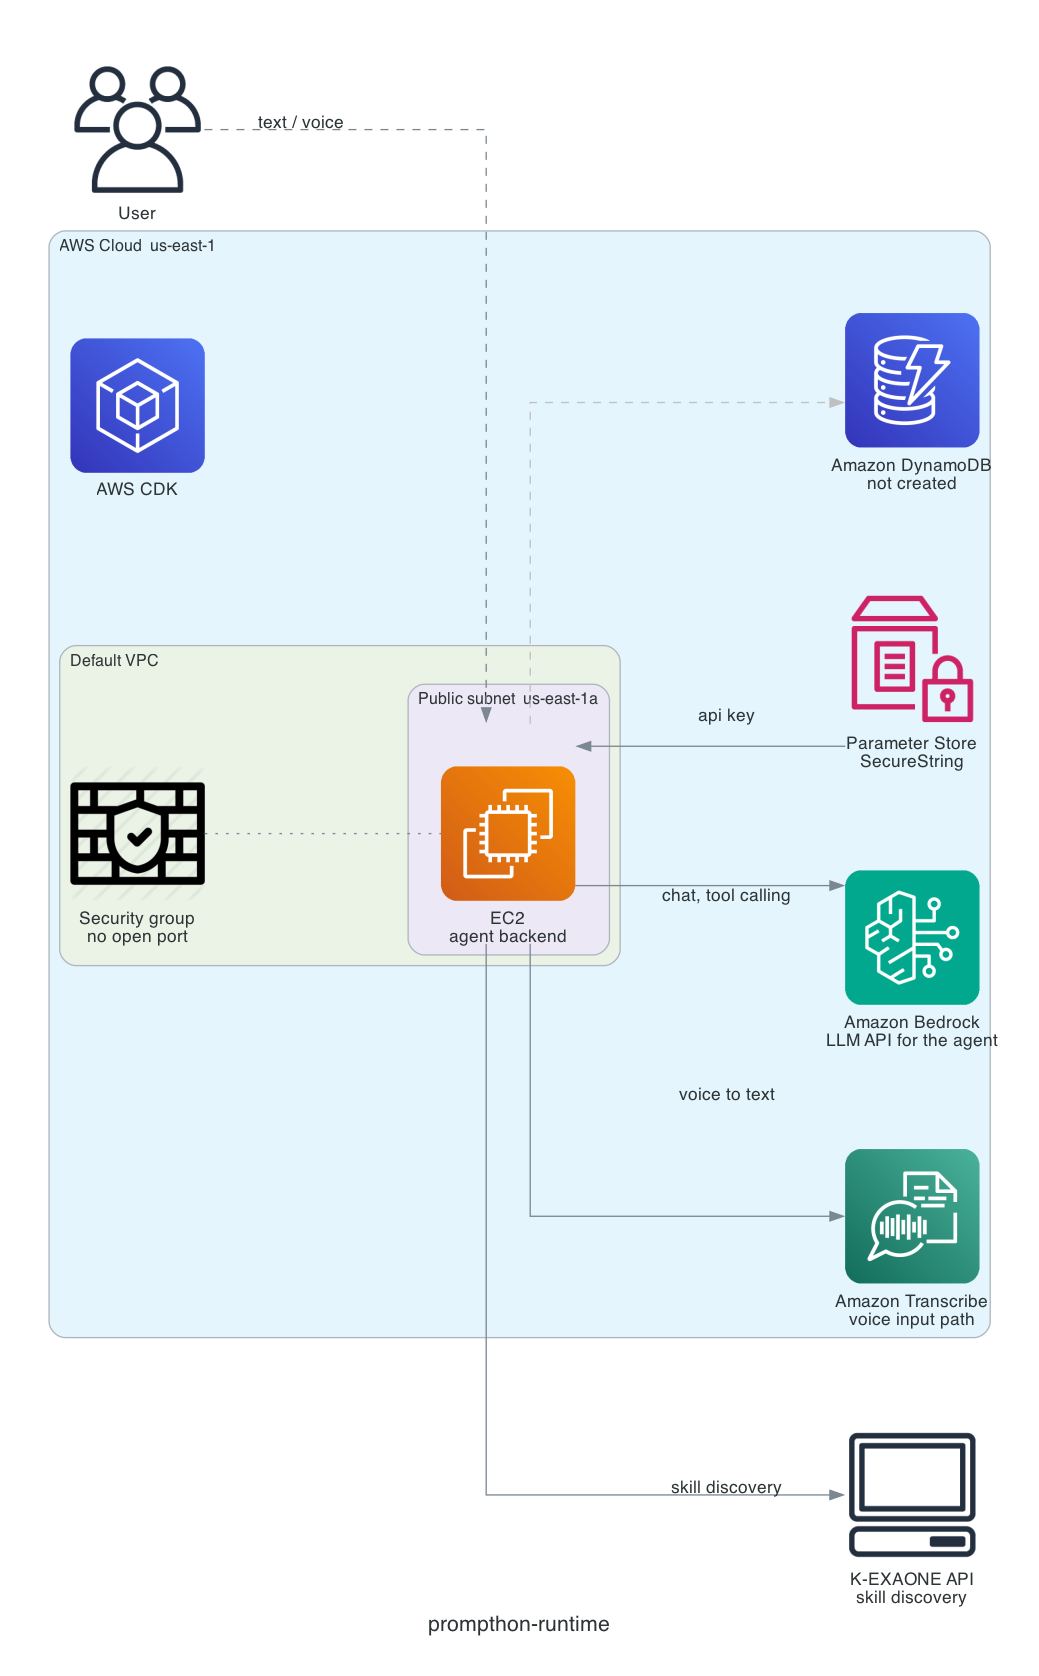
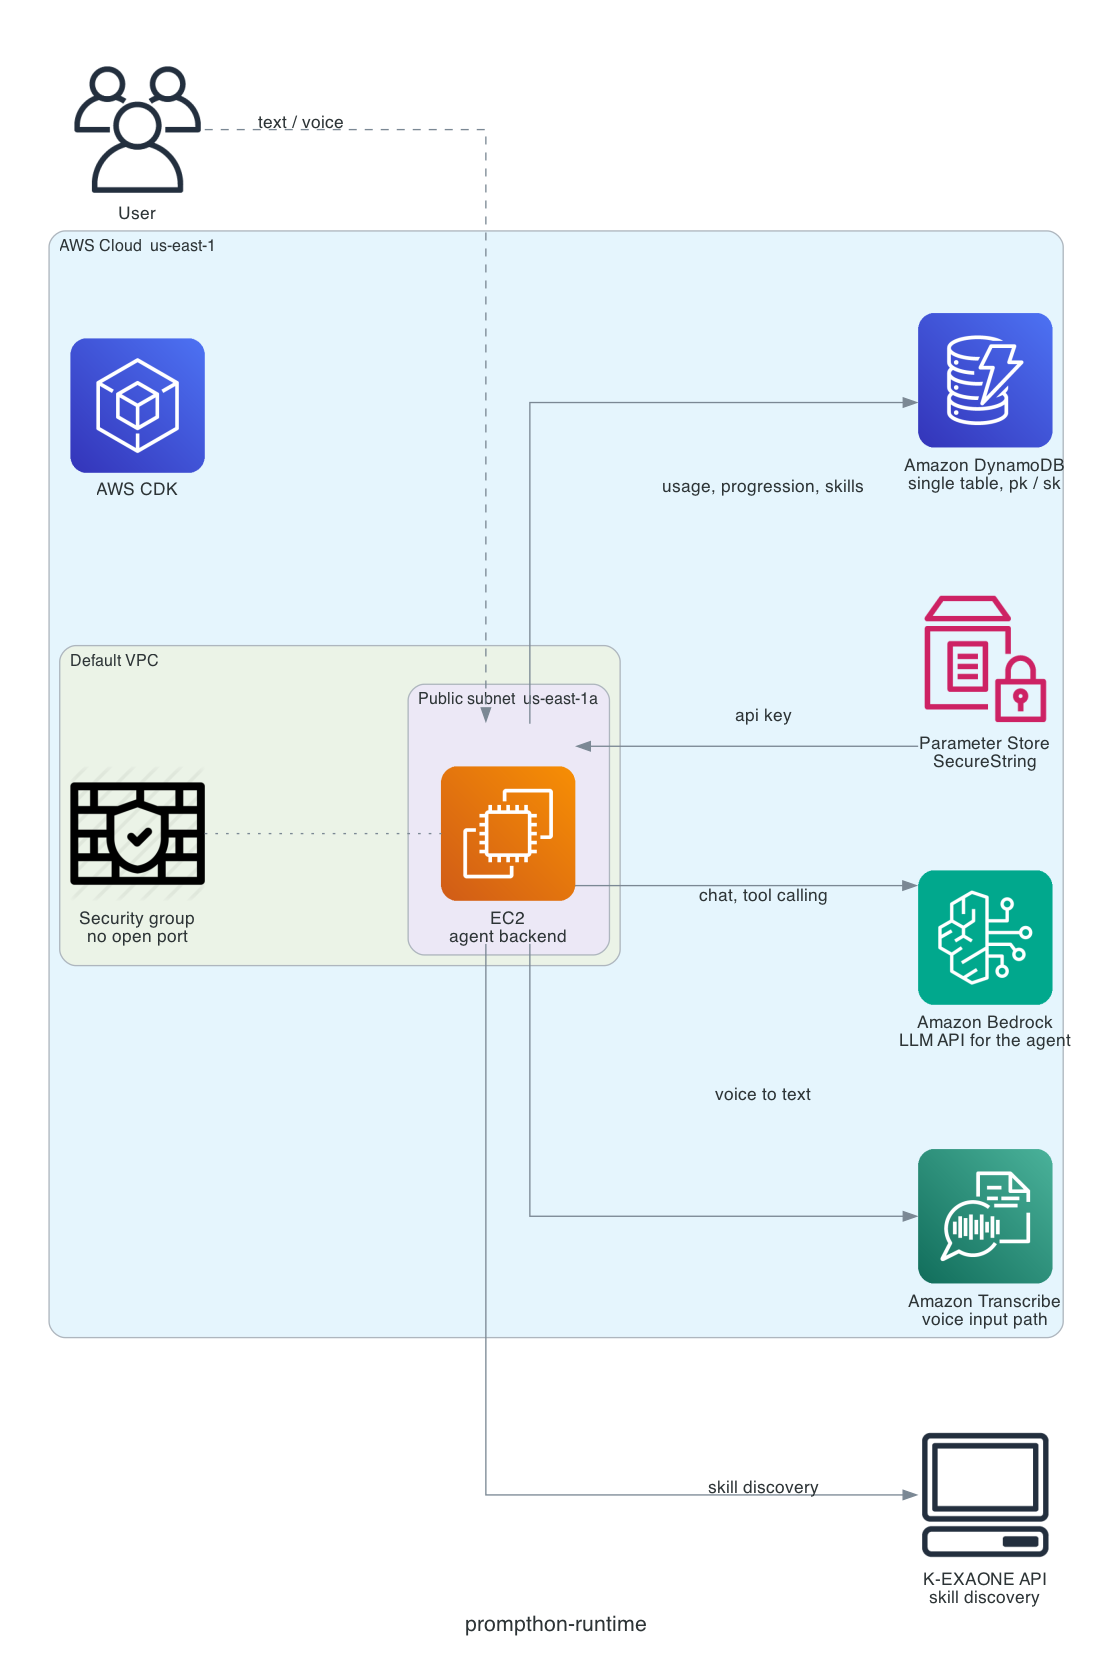
INFRA: add the app DynamoDB table with meaning-neutral base keys
One table, prompthon-app, keys pk and sk as plain strings. This unblocks BE
now rather than waiting on its data-access code.

The wait was there because base keys are immutable, so provisioning early
could mean committing to a wrong key. A base key that encodes no domain
meaning cannot become wrong, which removes the reason. Item-key conventions
like CHARACTER#pral are BE's data, not schema, and stay changeable.

pk holds a server-known owner, never a client-supplied id. Using an item's
own id as pk would give point lookups only and lose the usage-event range
queries Skill Discovery depends on.

No GSI yet; they get added one per deploy since CloudFormation refuses more
than one index change per stack update. No LSI ever, since an LSI cannot be
added after the table is created.

Verified on the host under instance-role credentials: put-item, a
begins_with query returning 1, then delete-item. describe-table shows ACTIVE,
pk HASH + sk RANGE, PAY_PER_REQUEST, no GSI or LSI. Grants resolve to the
table ARN only.

The obsolete no-DynamoDB assertion was replaced rather than dropped, so the
tested property moved from absence to shape.

diff --git a/infra/test/runtime-stack.test.ts b/infra/test/runtime-stack.test.ts
@@ -21,10 +21,35 @@ test('no inbound path to the host: no ingress rule, no key pair', () => {
   }
 });
 
-// business-rules.md validation rule 4: the runtime-first deployment must prove
-// no placeholder table was created before BE supplied access patterns.
-test('no DynamoDB placeholder', () => {
-  assert.deepEqual(template.findResources('AWS::DynamoDB::Table'), {});
+// One table, and its immutable part carries no domain meaning. If a future edit
+// puts something like `deviceId` in the base key, changing it later means
+// replacing the table, so this asserts the neutrality rather than the names.
+test('single table with meaning-neutral base keys, on demand, no LSI', () => {
+  const tables = Object.values(template.findResources('AWS::DynamoDB::Table'));
+  assert.equal(tables.length, 1);
+  const [props] = tables.map((t) => t.Properties);
+  assert.deepEqual(props.KeySchema, [
+    { AttributeName: 'pk', KeyType: 'HASH' },
+    { AttributeName: 'sk', KeyType: 'RANGE' },
+  ]);
+  assert.equal(props.BillingMode, 'PAY_PER_REQUEST');
+  // LSIs cannot be added after creation, so an accidental one is unfixable.
+  assert.equal(props.LocalSecondaryIndexes, undefined);
+});
+
+test('table grants are scoped to the table, not to all of DynamoDB', () => {
+  // grantReadWriteData emits read and write as separate statements, so this
+  // checks every one of them rather than assuming a count.
+  const resources = Object.values(template.findResources('AWS::IAM::Policy'))
+    .flatMap((policy) => policy.Properties.PolicyDocument.Statement)
+    .filter((s: { Action: string | string[] }) => JSON.stringify(s.Action).includes('dynamodb:'))
+    .map((s: { Resource: unknown }) => JSON.stringify(s.Resource));
+
+  assert.ok(resources.length > 0, 'expected at least one DynamoDB statement');
+  for (const resource of resources) {
+    assert.doesNotMatch(resource, /"\*"/);
+    assert.match(resource, /AppTable/);
+  }
 });
 
 test('ssm:GetParameter is scoped to exactly one parameter and nothing else', () => {

diff --git a/infra/lib/runtime-stack.ts b/infra/lib/runtime-stack.ts
@@ -1,4 +1,5 @@
-import { CfnOutput, Stack, StackProps } from 'aws-cdk-lib';
+import { CfnOutput, RemovalPolicy, Stack, StackProps } from 'aws-cdk-lib';
+import * as dynamodb from 'aws-cdk-lib/aws-dynamodb';
 import * as ec2 from 'aws-cdk-lib/aws-ec2';
 import * as iam from 'aws-cdk-lib/aws-iam';
 import { Construct } from 'constructs';
@@ -62,6 +63,22 @@ export class RuntimeStack extends Stack {
       }),
     );
 
+    // Keys are deliberately meaning-neutral. `pk`/`sk` are the only immutable
+    // decision here, and they encode nothing about the domain, so BE can settle
+    // item-key conventions in its own code and change them freely. `pk` holds a
+    // server-known owner rather than a client-supplied id, which keeps the
+    // usage-event range queries discovery needs on the base key - no GSI.
+    // Add GSIs later as query needs appear: one per deploy, CloudFormation
+    // refuses more than a single index change per stack update.
+    const table = new dynamodb.Table(this, 'AppTable', {
+      tableName: 'prompthon-app',
+      partitionKey: { name: 'pk', type: dynamodb.AttributeType.STRING },
+      sortKey: { name: 'sk', type: dynamodb.AttributeType.STRING },
+      billingMode: dynamodb.BillingMode.PAY_PER_REQUEST,
+      removalPolicy: RemovalPolicy.DESTROY,
+    });
+    table.grantReadWriteData(role);
+
     const instance = new ec2.Instance(this, 'BackendHost', {
       vpc,
       vpcSubnets: { subnetType: ec2.SubnetType.PUBLIC },
@@ -86,5 +103,6 @@ export class RuntimeStack extends Stack {
     new CfnOutput(this, 'InstanceId', { value: instance.instanceId });
     new CfnOutput(this, 'SecurityGroupId', { value: securityGroup.securityGroupId });
     new CfnOutput(this, 'BackendRoleArn', { value: role.roleArn });
+    new CfnOutput(this, 'AppTableName', { value: table.tableName });
   }
 }

diff --git a/infra/diagram.py b/infra/diagram.py
@@ -68,7 +68,10 @@ with Diagram(
             ],
             "Parameter Store\nSecureString",
         )
-        ddb = node(["diagrams.aws.database.Dynamodb"], "Amazon DynamoDB\nnot created")
+        ddb = node(
+            ["diagrams.aws.database.Dynamodb"],
+            "Amazon DynamoDB\nsingle table, pk / sk",
+        )
 
     exaone = node(["diagrams.onprem.client.Client"], "K-EXAONE API\nskill discovery")
 
@@ -79,4 +82,4 @@ with Diagram(
     ec2 >> Edge(label="chat, tool calling") >> bedrock
     ec2 >> Edge(label="skill discovery") >> exaone
     ec2 << Edge(label="api key") << param
-    ec2 >> Edge(style="dashed", color="grey") >> ddb
+    ec2 >> Edge(label="usage, progression, skills") >> ddb

diff --git a/aidlc-docs/construction/infra/code/runtime-contract.md b/aidlc-docs/construction/infra/code/runtime-contract.md
@@ -17,7 +17,8 @@ This is what BE consumes. Nothing here is secret.
 | Instance profile | `prompthon-runtime-BackendHostInstanceProfile2E6808AE-5FfIv3maSr3N` |
 | Security group | `sg-0715b9fa40c2c378d` — **zero inbound rules**, egress open |
 | Management path | SSM Session Manager. `aws ssm start-session --target i-0ede6aab809e7c1b0 --region us-east-1` |
-| SSM parameter name | `/prompthon/friendli-api-key` (metadata absent until an operator creates it) |
+| SSM parameter name | `/prompthon/friendli-api-key`, `SecureString`, version 2 |
+| DynamoDB table | `prompthon-app` — `ACTIVE`, keys `pk`/`sk` (String), on-demand, 0 indexes |
 | Deployment status | `verified` |
 
 ## What the instance role can do
@@ -32,7 +33,7 @@ long-lived access key.
 | Bedrock | `InvokeModel`, `InvokeModelWithResponseStream` | `arn:aws:bedrock:*::foundation-model/*` and `inference-profile/*` in this account. The region wildcard is required because `us.` inference profiles fan out to sibling regions |
 | Transcribe | `StartStreamTranscription` | `*` — streaming transcription has no resource-level permission in IAM |
 
-**Not granted**: DynamoDB. Added in the same later update that creates the tables.
+| DynamoDB | read and write item operations | `prompthon-app` table ARN only. No `dynamodb:*`, no table wildcard |
 
 **Converse needs no separate grant.** `bedrock:Converse` and `bedrock:ConverseStream` do exist as IAM actions, but Converse depends on Invoke, so the two actions above cover it. Confirmed by a real `bedrock-runtime converse` call from the instance under this exact policy. If you ever write a **Deny** policy, that asymmetry matters: denying `InvokeModel` blocks Converse, and enumerating `bedrock:Converse` explicitly is valid there.
 
@@ -54,17 +55,27 @@ Copyable form lives in `.env-example` at the repo root.
    first-hour verifications from `aidlc-state.md`: tool calling on the *dedicated*
    Friendli endpoint, `modelKwargs` passthrough, thinking-output shape, and
    whether `seed` is honoured. The first one can invalidate the architecture.
-2. **To unlock DynamoDB, just write the data-access code.** Point it at a table name
-   from an environment variable and say what you store and how you look each thing
-   up. That is the whole handoff — no form, no contract document. INFRA reads the
-   code and decides table count and keys; capacity, encryption, Streams, TTL, PITR,
-   deletion protection and removal policy all take ordinary demo defaults and are
-   not discussed per table. `Scan` is fine at demo volume.
+2. **The table already exists — just connect to it.** `APP_TABLE_NAME=prompthon-app`,
+   base keys `pk` and `sk`, both String, on-demand, no index. Nothing is waiting on
+   you.
 
-   One constraint worth knowing before you pick an ID: **keys must come from a
-   server-known owner, never a client-supplied identifier**, and partition/sort keys
-   cannot be changed after creation without replacing the table. Everything else is
-   one `cdk deploy` away.
+   The keys deliberately carry no domain meaning, because base keys are the only
+   immutable part of a table. Item-key conventions are **your data, not schema**, so
+   you can change them whenever you like. Suggested, not binding:
+
+   | Lookup | pk | sk |
+   |---|---|---|
+   | Character profile | `CHARACTER#pral` | `PROFILE` |
+   | Skill list | `CHARACTER#pral` | `SKILL#` begins_with |
+   | Usage events in a window | `CHARACTER#pral` | `EVENT#<ts>` between |
+   | Feedback | `CHARACTER#pral` | `FEEDBACK#<ts>` |
+
+   All four run off the base key, so discovery needs no index. Put a **server-known
+   owner** in `pk`, never a client-supplied id. If you use the item's own id as `pk`
+   you get point lookups only and lose the range queries discovery depends on.
+
+   Tell INFRA when a lookup needs a GSI. One index per deploy — CloudFormation
+   refuses more than a single index change per stack update.
 3. **Before any public ingress**, the NFR-5.2 shared passcode gate has to exist.
    The security group stays closed until then.
 
@@ -72,7 +83,7 @@ Copyable form lives in `.env-example` at the repo root.
 
 | Absent | Unlocked by |
 |---|---|
-| DynamoDB tables, keys, indexes | BE's data-access code showing what it stores and how it reads it |
+| DynamoDB GSIs | A lookup that actually needs one. The table itself exists |
 | User Data / boot script | An application that exists to start. Manual steps documented in `infra/README.md` |
 | Public application ingress | The NFR-5.2 passcode gate |
 | SSH key pair, bastion | Nothing. Session Manager replaces them permanently |

diff --git a/aidlc-docs/audit.md b/aidlc-docs/audit.md
@@ -1286,3 +1286,17 @@ Q4 A"
 **Context**: CONSTRUCTION - INFRA Code Generation approved. Unit complete; proceeding to commit, push, and PR.
 
 ---
+## Construction - INFRA Commit, Push, and PR
+**Timestamp**: 2026-08-20T11:45:00Z
+**User Input**: "N/A - executing the approved commit/push/PR request"
+**AI Response**: "Committed the INFRA unit as `1310e69` on branch `construction/infra`, pushed with upstream tracking, and opened PR #6 against `main` at https://github.com/MD-team-project/2026-prompthon-WDC/pull/6. Staged 24 files by name rather than with `git add .`: the root workspace files, the whole `infra/` workspace, and the INFRA construction artifacts. `.kiro/settings/mcp.json` was deliberately left unstaged as unrelated tooling config. Pre-commit checks: scanned all tracked files for Friendli, AWS access key, and bearer token patterns with no matches; re-confirmed `.env` is gitignored via `git check-ignore`; verified `node_modules/` and `cdk.out/` are excluded. The PR body records what was verified from inside the instance, what is deliberately absent with its unlock condition, the blocked items, and the corrected Bedrock IAM action note for reviewers."
+**Context**: CONSTRUCTION - INFRA unit delivered. PR #6 open for review.
+
+---
+## Construction - INFRA DynamoDB Table Created Up Front
+**Timestamp**: 2026-08-20T11:55:00Z
+**User Input**: "be가 코드를 쓸때 연결할 수 있도록 하는 테이블 구성이 먼저 필요할 것 같음. pk를 id값으로 하면 되려나"
+**AI Response**: "Advised against `pk = item id` and explained why: it makes every item its own partition, which allows point lookups only and destroys the range queries Skill Discovery depends on, leaving `Scan` as the only option. Recommended `pk` = server-known owner and `sk` = discriminator plus sort order, which serves character profile, skill list, usage-event time windows, and feedback entirely from the base key with zero indexes. Then created the table, reversing the earlier decision to wait for BE. The reversal is justified rather than arbitrary: the only immutable part of a table is its base key, and `pk`/`sk` as plain strings encode no domain meaning, so there is nothing that can turn out wrong later. Item-key conventions such as `CHARACTER#pral` are BE's data rather than schema and remain changeable at any time, so the table constrains BE in no way. Deployed `prompthon-app` on-demand with `DESTROY`, granted the instance role read and write scoped to that table ARN only, and published `APP_TABLE_NAME` in the environment contract and as a stack output. Third `cdk deploy`, 44 s, `UPDATE_COMPLETE`, diff containing only the table, the policy change, and one output. Verified from the host under instance-role credentials: `put-item` succeeded, a `begins_with(sk, 'EVENT#')` query returned 1, `delete-item` cleaned up. `describe-table` confirms `ACTIVE`, `pk` HASH plus `sk` RANGE, `PAY_PER_REQUEST`, and no GSI or LSI. Replaced the now-obsolete 'no DynamoDB placeholder' template assertion with assertions on shape — one table, meaning-neutral base keys, on-demand, no LSI, and every DynamoDB grant scoped to the table ARN. 5 tests pass, `cdk diff` clean. Recorded that GSIs are added one per deploy because CloudFormation refuses more than a single index change per stack update, and that LSIs are permanently excluded since they cannot be added after creation. Updated `aidlc-state.md`, `runtime-contract.md`, `deployment-evidence.md`, `business-rules.md`, `ARCHITECTURE.md`, `.env-example`, and regenerated the architecture diagram."
+**Context**: CONSTRUCTION - INFRA follow-up. DynamoDB provisioned and verified; BE is now unblocked on persistence.
+
+---

diff --git a/aidlc-docs/aidlc-state.md b/aidlc-docs/aidlc-state.md
@@ -243,7 +243,7 @@ Opus also remains a good build-time tool for authoring persona prompts and fixtu
 | Security group | `sg-0715b9fa40c2c378d` — **zero inbound rules** |
 | Management | SSM Session Manager, agent `Online`. No key pair, no SSH port, IMDSv2 required |
 | Role actions | `ssm:GetParameter` (one exact parameter ARN), `bedrock:InvokeModel`, `bedrock:InvokeModelWithResponseStream`, `transcribe:StartStreamTranscription` |
-| DynamoDB | **0 tables, deliberately.** Verified post-deploy |
+| DynamoDB | `prompthon-app`, `ACTIVE`. Keys `pk`/`sk` (String), on-demand, 0 indexes. Added 2026-08-20T11:55:00Z |
 | Bootstrap | `CDKToolkit` created. Account-level, dies with the account, must be re-run in any future account |
 
 **Bedrock IAM actions, corrected 2026-08-20T11:05:00Z.** An earlier version of this section claimed `bedrock:Converse` and `bedrock:ConverseStream` are not IAM action names. **That was wrong** — they exist. The rule depends on direction:
@@ -260,9 +260,13 @@ Removing them from the Allow policy was still correct, because there they grante
 
 **What BE needs from INFRA is now published.** Read `aidlc-docs/construction/infra/code/runtime-contract.md`.
 
-**DynamoDB handoff simplified 2026-08-20T11:10:00Z by user directive.** The earlier seven-field access-pattern contract (caller, operation, owner boundary, consistency, fields, result bound, RPS) is **withdrawn as over-process for a demo**. BE simply writes its data-access code against a table name from an environment variable; INFRA reads it and decides table count and keys. Capacity, encryption, Streams, TTL, PITR, deletion protection and removal policy take ordinary demo defaults and are not argued per table. `Scan` is acceptable at demo volume.
+**DynamoDB handoff simplified 2026-08-20T11:10:00Z, then resolved 2026-08-20T11:55:00Z, both by user directive.** The seven-field access-pattern contract (caller, operation, owner boundary, consistency, fields, result bound, RPS) was **withdrawn as over-process for a demo**. Then the table was **created up front** rather than waiting on BE at all.
 
-Two things still bind, both because they are expensive after the fact: **keys derive from a server-known owner, never a client-supplied identifier**, and **partition/sort keys are immutable** — changing one replaces the table. That immutability, and nothing else, is why provisioning waits for BE rather than guessing.
+**What made waiting unnecessary**: the only immutable part of a table is its base key, so a base key that encodes nothing cannot be wrong later. `prompthon-app` uses `pk`/`sk`, both String, carrying no domain meaning. Item-key conventions like `CHARACTER#pral` are BE's *data*, changeable at any time, not schema. So Question 5's original concern — that provisioning early means guessing immutable keys — does not apply to a meaning-neutral key.
+
+**Still binding**: `pk` holds a server-known owner, never a client-supplied id. Using an item's own id as `pk` would allow point lookups only and lose the usage-event range queries Skill Discovery depends on.
+
+**GSIs remain absent** and are added one per deploy when a lookup needs one — CloudFormation refuses more than a single index change per stack update. LSIs are excluded permanently since they cannot be added after table creation.
 
 **Friendli handoff to BE**: the actual `FRIENDLI_API_KEY` value is intentionally unread and unverified by INFRA. BE must confirm it in its own local environment and run the four first-hour checks below.
 

diff --git a/aidlc-docs/construction/infra/functional-design/business-rules.md b/aidlc-docs/construction/infra/functional-design/business-rules.md
@@ -4,7 +4,7 @@
 
 1. INFRA provisions and configures AWS runtime resources; it does not implement agents, discovery, the device stub, application APIs, frontend behavior, or product fixtures.
 2. The Infrastructure Design stage remains skipped. This Functional Design records only behavior, handoffs, constraints, and acceptance conditions required for Code Generation.
-3. The initial deployment includes a minimal EC2 runtime but no placeholder DynamoDB table.
+3. The initial deployment included a minimal EC2 runtime and no placeholder DynamoDB table. **Superseded 2026-08-20T11:55:00Z**: the table now exists with meaning-neutral base keys, which is not a placeholder — nothing about it has to be guessed or corrected later.
 4. DynamoDB is added once BE's data-access code shows what it persists and how it reads it back. See the simplification note under DynamoDB Rules.
 5. No CI/CD platform, multi-account framework, custom construct library, S3, CloudFront, ECS, Lambda, API Gateway, or monitoring stack is added without a concrete requirement.
 
@@ -46,8 +46,10 @@ seven-field access-pattern contract from BE. That was over-process for a demo. *
 states what it uses DynamoDB for; INFRA decides table count and keys from that;
 everything else takes ordinary demo defaults.**
 
-1. **BE's only obligation is to say which data it persists and how it looks that data up.** Its repository code counts as the statement — no form, no separate document. INFRA derives table boundaries, keys, and any index from it.
-2. Table count and key design are INFRA's call, made from BE's stated usage. Table count is an output of that, not a preset target.
+**Resolved 2026-08-20T11:55:00Z**: rules 1 and 2 below are satisfied without any handoff. One table `prompthon-app` exists with meaning-neutral `pk`/`sk` base keys, so BE has nothing to supply before connecting. A base key that encodes nothing cannot become wrong, which removes the reason to wait. GSIs are still driven by real lookups.
+
+1. ~~**BE's only obligation is to say which data it persists and how it looks that data up.**~~ Now applies to **indexes only**. BE names a lookup that needs a GSI; INFRA adds it.
+2. ~~Table count and key design are INFRA's call, made from BE's stated usage.~~ Settled: one table, `pk`/`sk`. Revisit only if a real need appears.
 3. Current device state, conversation history, speech audio, and committed JSON fixtures are not stored in DynamoDB.
 4. Persisted scope is limited to accumulated usage events, character progression, discovered skills with provenance and revisions, and feedback.
 5. Everything not named above takes the ordinary demo default: on-demand capacity, AWS-owned encryption, no Streams, no TTL, no PITR, no deletion protection, CDK `DESTROY`. These are not re-litigated per table. BE overrides one only by naming a concrete need.

diff --git a/infra/ARCHITECTURE.md b/infra/ARCHITECTURE.md
@@ -21,7 +21,14 @@ Regenerate with `infra/diagram.py` after changing the stack.
   and is the only side that sees accumulated usage history.
 - **Voice and text are one input surface.** Text goes straight to the backend; voice
   goes through Transcribe first, so the agent only ever receives text.
-- **DynamoDB is drawn but not created.** No table and no grant.
+- **One DynamoDB table, `prompthon-app`, with base keys `pk` and `sk`.** Both are
+  plain strings that carry no domain meaning, which is the point: base keys are the
+  only immutable choice in a table, so encoding nothing in them means BE can settle
+  item-key conventions in its own code and change them later. `pk` holds a
+  server-known owner such as `CHARACTER#pral`, never a client-supplied id, which
+  keeps the range queries discovery needs on the base key with no index. GSIs get
+  added when a lookup actually needs one — one per deploy, since CloudFormation
+  refuses more than a single index change per stack update.
 - **K-EXAONE is outside AWS**, so outbound egress is its only path. Its key comes
   from Parameter Store, never from a file on the host.
 
@@ -33,6 +40,7 @@ Regenerate with `infra/diagram.py` after changing the stack.
 | Friendli key | `ssm:GetParameter` | One exact parameter ARN. No list, no path read, no write |
 | Bedrock | `InvokeModel`, `InvokeModelWithResponseStream` | `foundation-model/*`, `inference-profile/*` |
 | Transcribe | `StartStreamTranscription` | `*` — no resource-level permission exists |
+| DynamoDB | read and write item operations | The `prompthon-app` table ARN only |
 
 The Bedrock region wildcard is required: `us.` inference profiles fan out to sibling
 regions and fail without foundation-model permission there. `Converse` needs no
